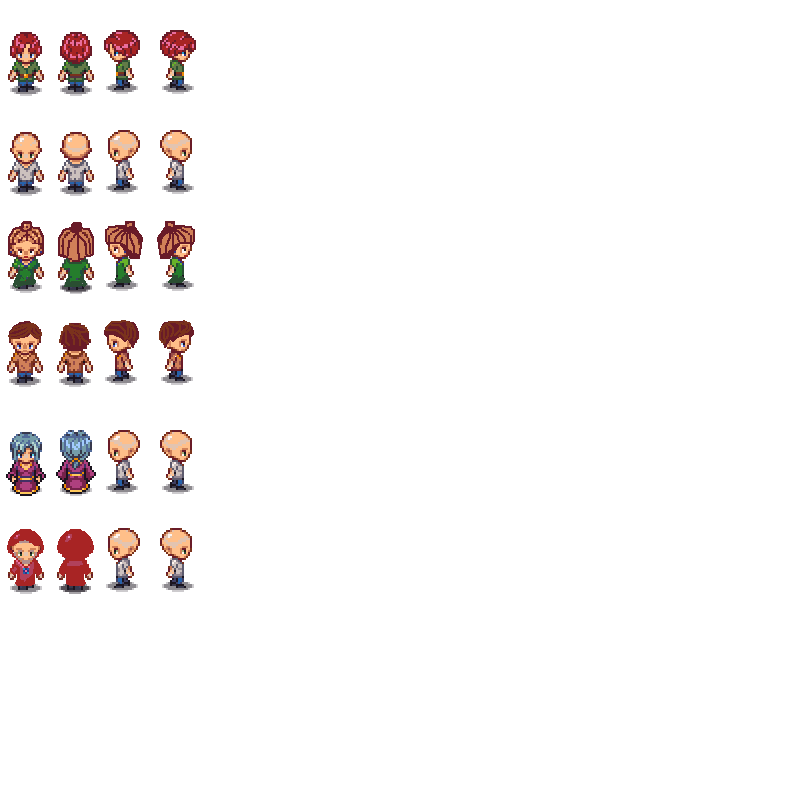
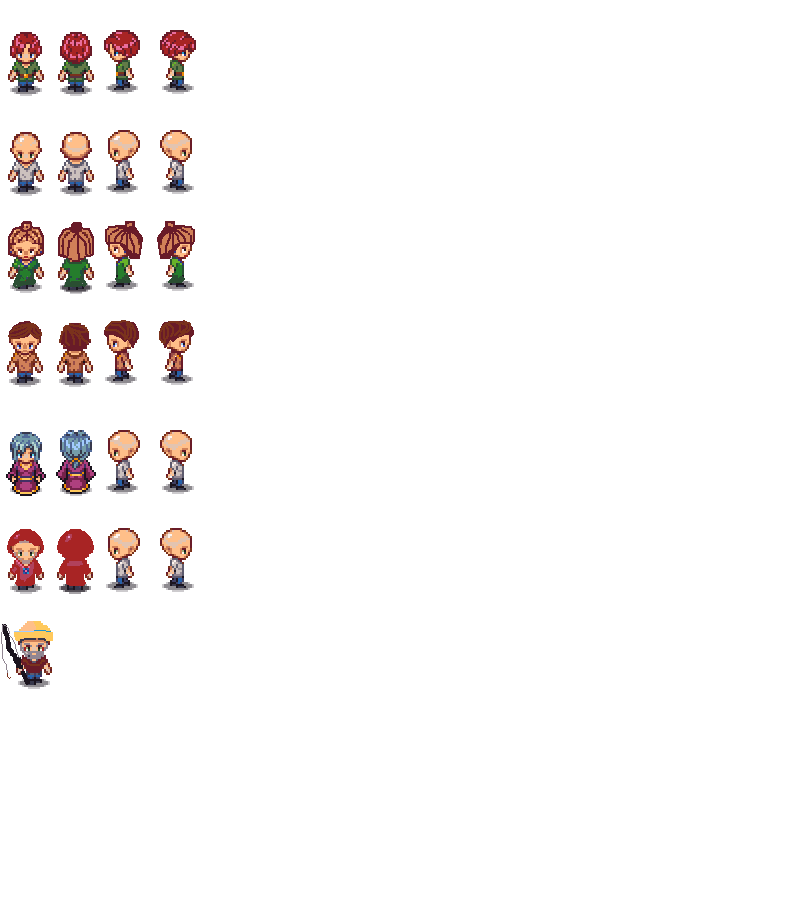
Added Godwin

Changed region(s): [[0.0, 0.0312, 0.25, 0.7812]]

diff --git a/js/daggerAssets.js b/js/daggerAssets.js
@@ -173,6 +173,13 @@ const animators = {
         },
     },
 
+    "GODWIN": {
+        cls: "Animator",
+        animations: {
+            [Animator.idle]: "GODWIN",
+        },
+    },
+
 }
 
 /**
@@ -317,6 +324,20 @@ const daggerNpcs = {
             { tag: "clariceDone", predicate: (npc) => quests.checkDone("m2") },
             { tag: "clariceComplete", predicate: (npc) => quests.checkCompleted("m2") },
         ],
+
+    GODWIN: {
+        sketch: animators["GODWIN"],
+        yOff: -25,
+        collider: {
+            color: "rgba(175,175,175,.75)",
+            width: 40, 
+            height: 30, 
+            //blocking: false,
+        },
+        dialogs: [
+         //EMPTY FOR NOW
+        ],
+        },
     },
 
 };
@@ -1978,6 +1999,9 @@ const daggerAssets = [
     // 909   
         {tag: "ELDER",                id: 909,  cls: "Sprite", width: 50, height: 100, xoffset: 0, yoffset: 400 },
         {tag: "ELDER_PORT",                     cls: "Sprite", width: 50, height: 50, xoffset: 0, yoffset: 422 },
+    // 910   FISHERMAN
+        {tag: "GODWIN",                id: 910,  cls: "Sprite", width: 75, height: 100, xoffset: 0, yoffset: 600 },
+        {tag: "GODWIN_PORT",                     cls: "Sprite", width: 75, height: 50, xoffset: 0, yoffset: 622 },
     ]},
 
     /* === NON INDEXED ASSETS ================================================================ */

diff --git a/js/WorldGen.js b/js/WorldGen.js
@@ -898,7 +898,7 @@ var house1Spec = {
         420,430,430,430,430,430,430,430,421,
         420,431,431,431,431,431,437,428,421,
         420,435,  0,  0,  0,  0,438,429,421,
-        420,436,  0,  0,  0,  0,  0,  0,421,
+        420,436,  0,910,  0,  0,  0,  0,421,
         420,  0,  0,  0,  0,  0,  0, 74,421,
         420,  0,  0,  0,  0,  0,  0, 74,421,
          25,422,422,424,  0,425,422,422, 25,
